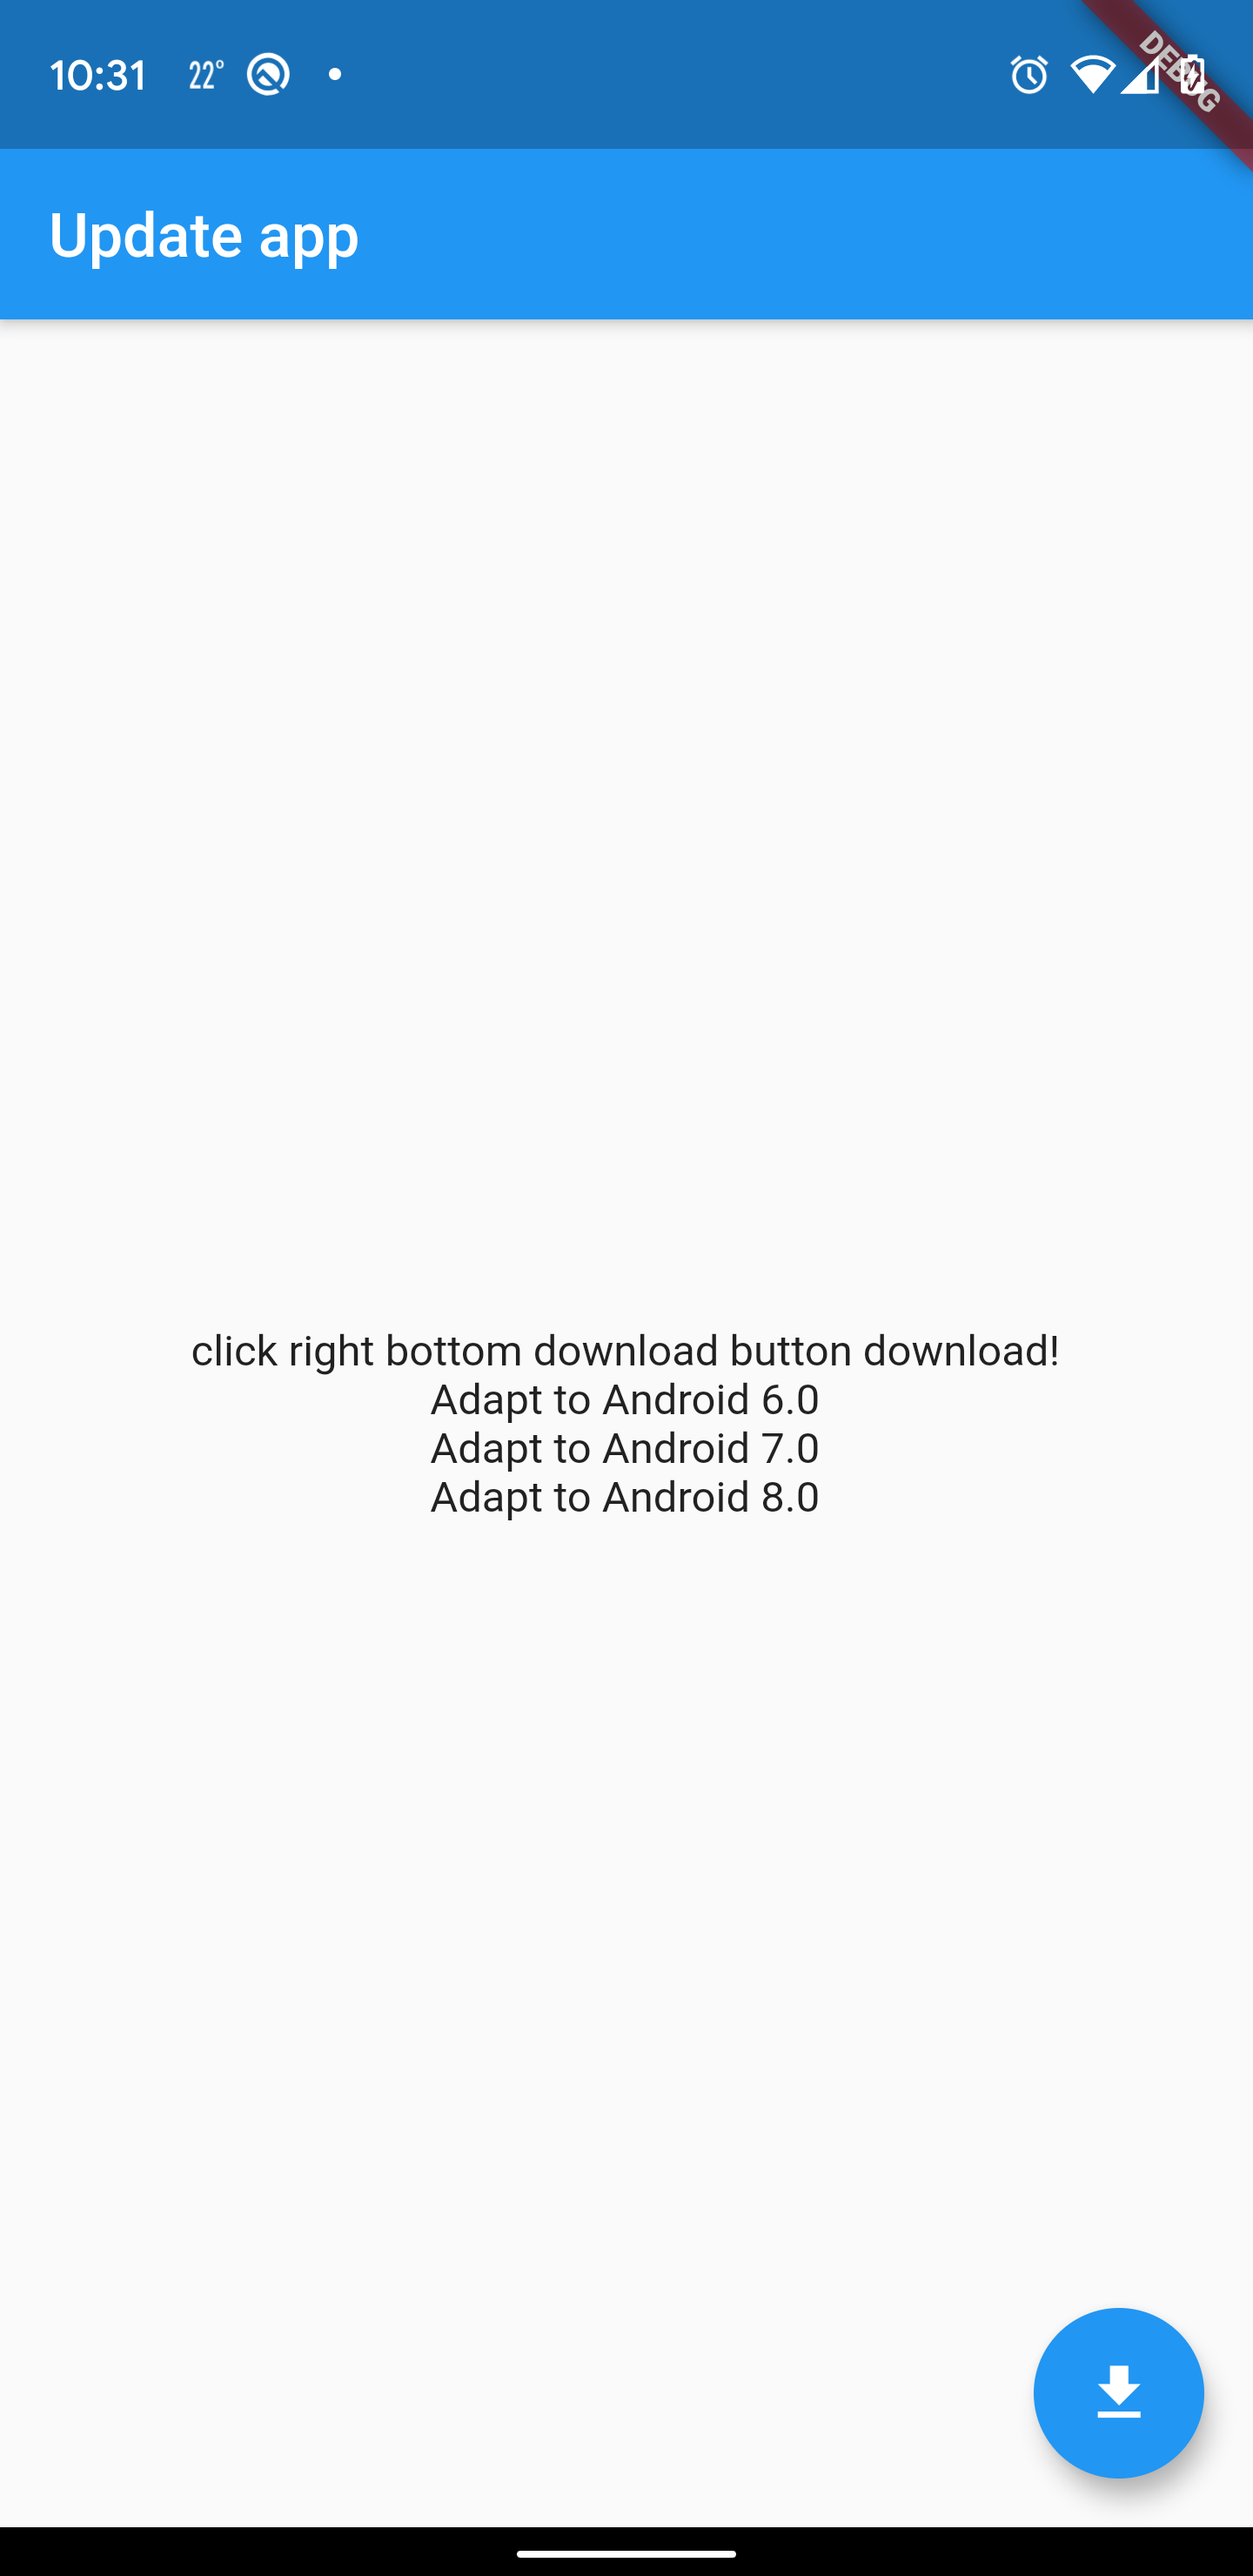
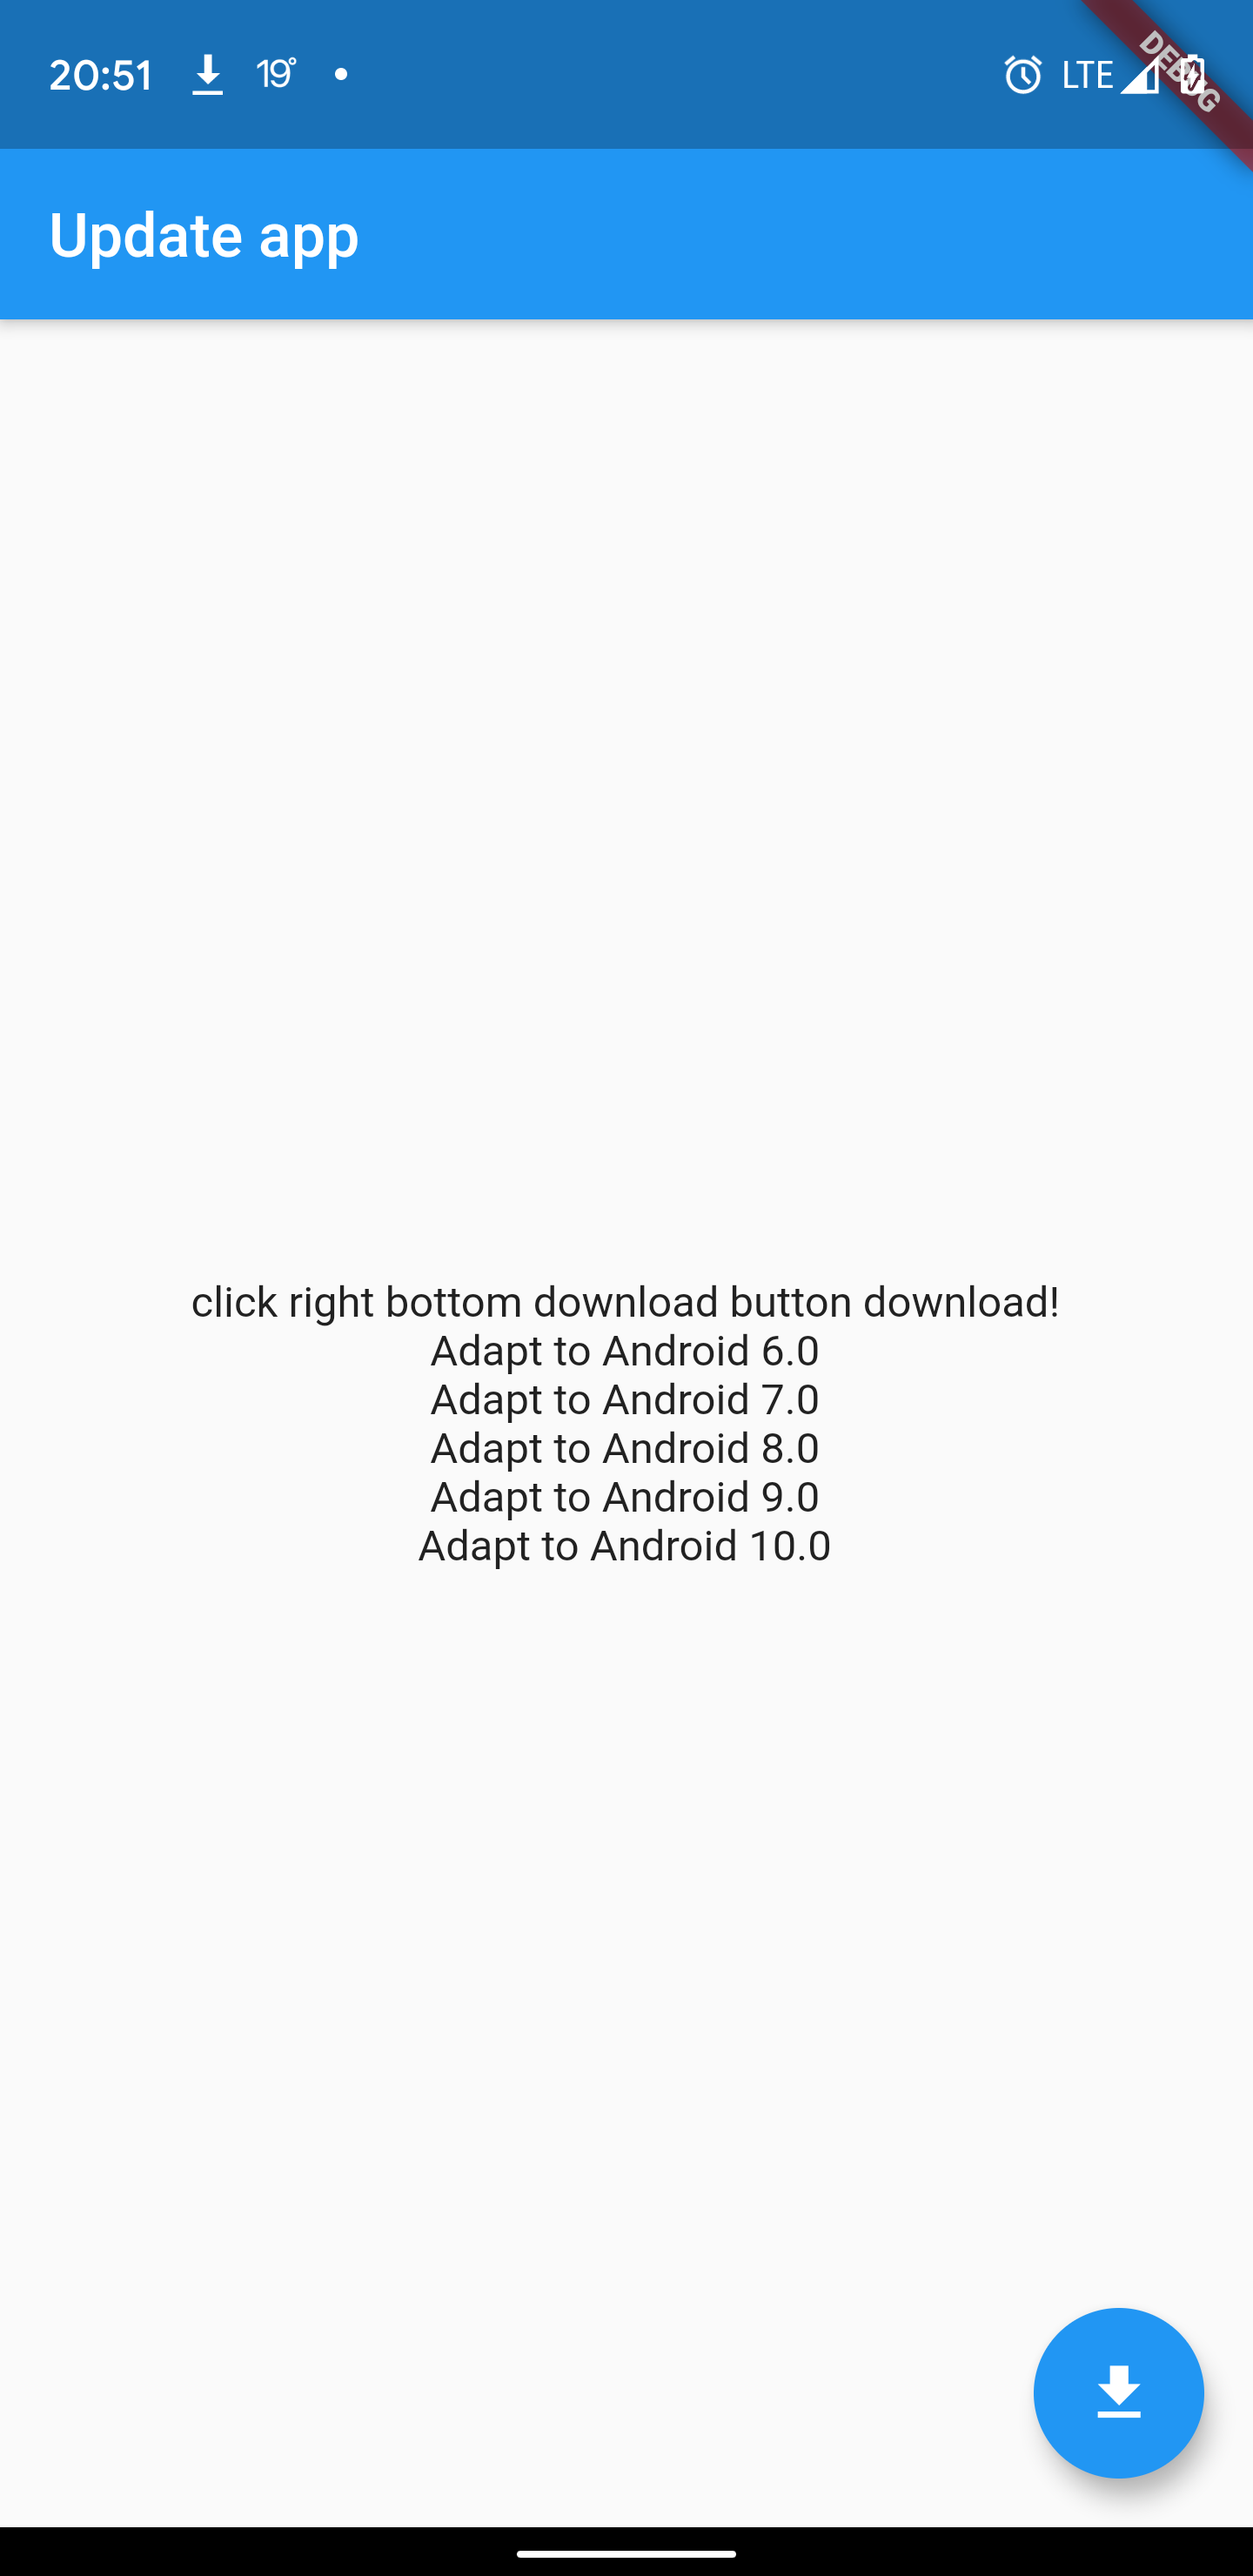
1.根据pub.dev修改信息

diff --git a/android/src/main/kotlin/cn/mofada/update_app/UpdateReceiver.kt b/android/src/main/kotlin/cn/mofada/update_app/UpdateReceiver.kt
@@ -25,8 +25,6 @@ class UpdateReceiver : BroadcastReceiver() {
      * 下载完成
      */
     private fun downloadComplete(context: Context, intent: Intent) {
-        Intent.ACTION_PACKAGE_ADDED
-
         if (!intent.hasExtra(DownloadManager.EXTRA_DOWNLOAD_ID)) {
             //如果没有包含下载的id, 那么返回
             return

diff --git a/example/lib/main.dart b/example/lib/main.dart
@@ -32,6 +32,8 @@ class _MyAppState extends State<MyApp> {
               Text('Adapt to Android 6.0'),
               Text('Adapt to Android 7.0'),
               Text('Adapt to Android 8.0'),
+              Text('Adapt to Android 9.0'),
+              Text('Adapt to Android 10.0'),
             ],
           ),
         ),

diff --git a/README.md b/README.md
@@ -1,28 +1,41 @@
 # [update_app](https://pub.dev/packages/update_app)
-更新app, 传入更新的地址, 进行app更新,
-Android部分使用DownloadManager实现.若文件已下载, 则直接安装.  
+Update the app, pass in the updated address, and update the app.   
+更新app, 传入更新的地址, 进行app更新    
+
+The Android part is implemented using DownloadManager. If the file has been downloaded, install it directly.  
+Android部分使用DownloadManager实现.若文件已下载, 则直接安装.    
+
+The Ios section does not support external updates, skip the App Store.  
 Ios部分不支持外部更新, 跳转App Store.
 
-## 体验demo
-[apk下载](apks/app-debug.apk)   
+## Experience demo(体验Demo)
+[download apk(下载APK)](apks/app-debug.apk)   
 
 ![screen](images/screen.png)
 
-## 使用方法
+## How to use(如何使用)
 ```dart
 import 'package:update_app/update_app.dart';
 
 UpdateApp.updateApp(url: "apkPath",appleId:"375380948",title:"通知标题",description:"通知描述");
 ```
 
-# 特点
-## Android部分
-1. 使用[DownloadManager](https://developer.android.com/reference/android/app/DownloadManager)进行下载
-2. 监听下载完成广播  
-3. 适配[Android 6.0运行时权限](https://developer.android.com/training/permissions/requesting?hl=zh-cn) 文件存储在app目录, 不需要申请运行时权限
-4. 适配[Android 7.0FileProvider](https://developer.android.com/reference/android/support/v4/content/FileProvider)
-5. 适配Android 8.0安装权限
-6. 适配[Android 9.0网络安全配置](https://developer.android.com/training/articles/security-config)
 
-## IOS部分
-1. 跳转应用商店
+# Features(特点)
+## Android part(Android部分)
+1. Download using [DownloadManager](https://developer.android.com/reference/android/app/DownloadManager)  
+   使用[DownloadManager](https://developer.android.com/reference/android/app/DownloadManager)进行下载
+2. Monitor download completion broadcast  
+   监听下载完成广播  
+3. Adapt [Android 6.0 Runtime Permissions](https://developer.android.com/training/permissions/requesting?hl=en) Files are stored in the app directory, no need to apply for runtime permissions  
+   适配[Android 6.0运行时权限](https://developer.android.com/training/permissions/requesting?hl=zh-cn) 文件存储在app目录, 不需要申请运行时权限
+4. Adapt [Android 7.0FileProvider](https://developer.android.com/reference/android/support/v4/content/FileProvider)  
+   适配[Android 7.0FileProvider](https://developer.android.com/reference/android/support/v4/content/FileProvider)
+5. Adapt Android 8.0 installation permissions  
+   适配Android 8.0安装权限
+6. Adapt [Android 9.0 Network Security Configuration] (https://developer.android.com/training/articles/security-config)  
+   适配[Android 9.0网络安全配置](https://developer.android.com/training/articles/security-config)
+
+## IOS section(IOS部分)
+1. Jump to the app store
+   跳转应用商店

diff --git a/CHANGELOG.md b/CHANGELOG.md
@@ -17,3 +17,12 @@
 
 ## 0.0.5
 1.修改版本问题
+
+## 0.1.0
+1.Modify the prompt and version number according to pub.dev
+
+## 0.1.1
+1.update README.MD
+
+## 0.1.2
+1.update README.MD
